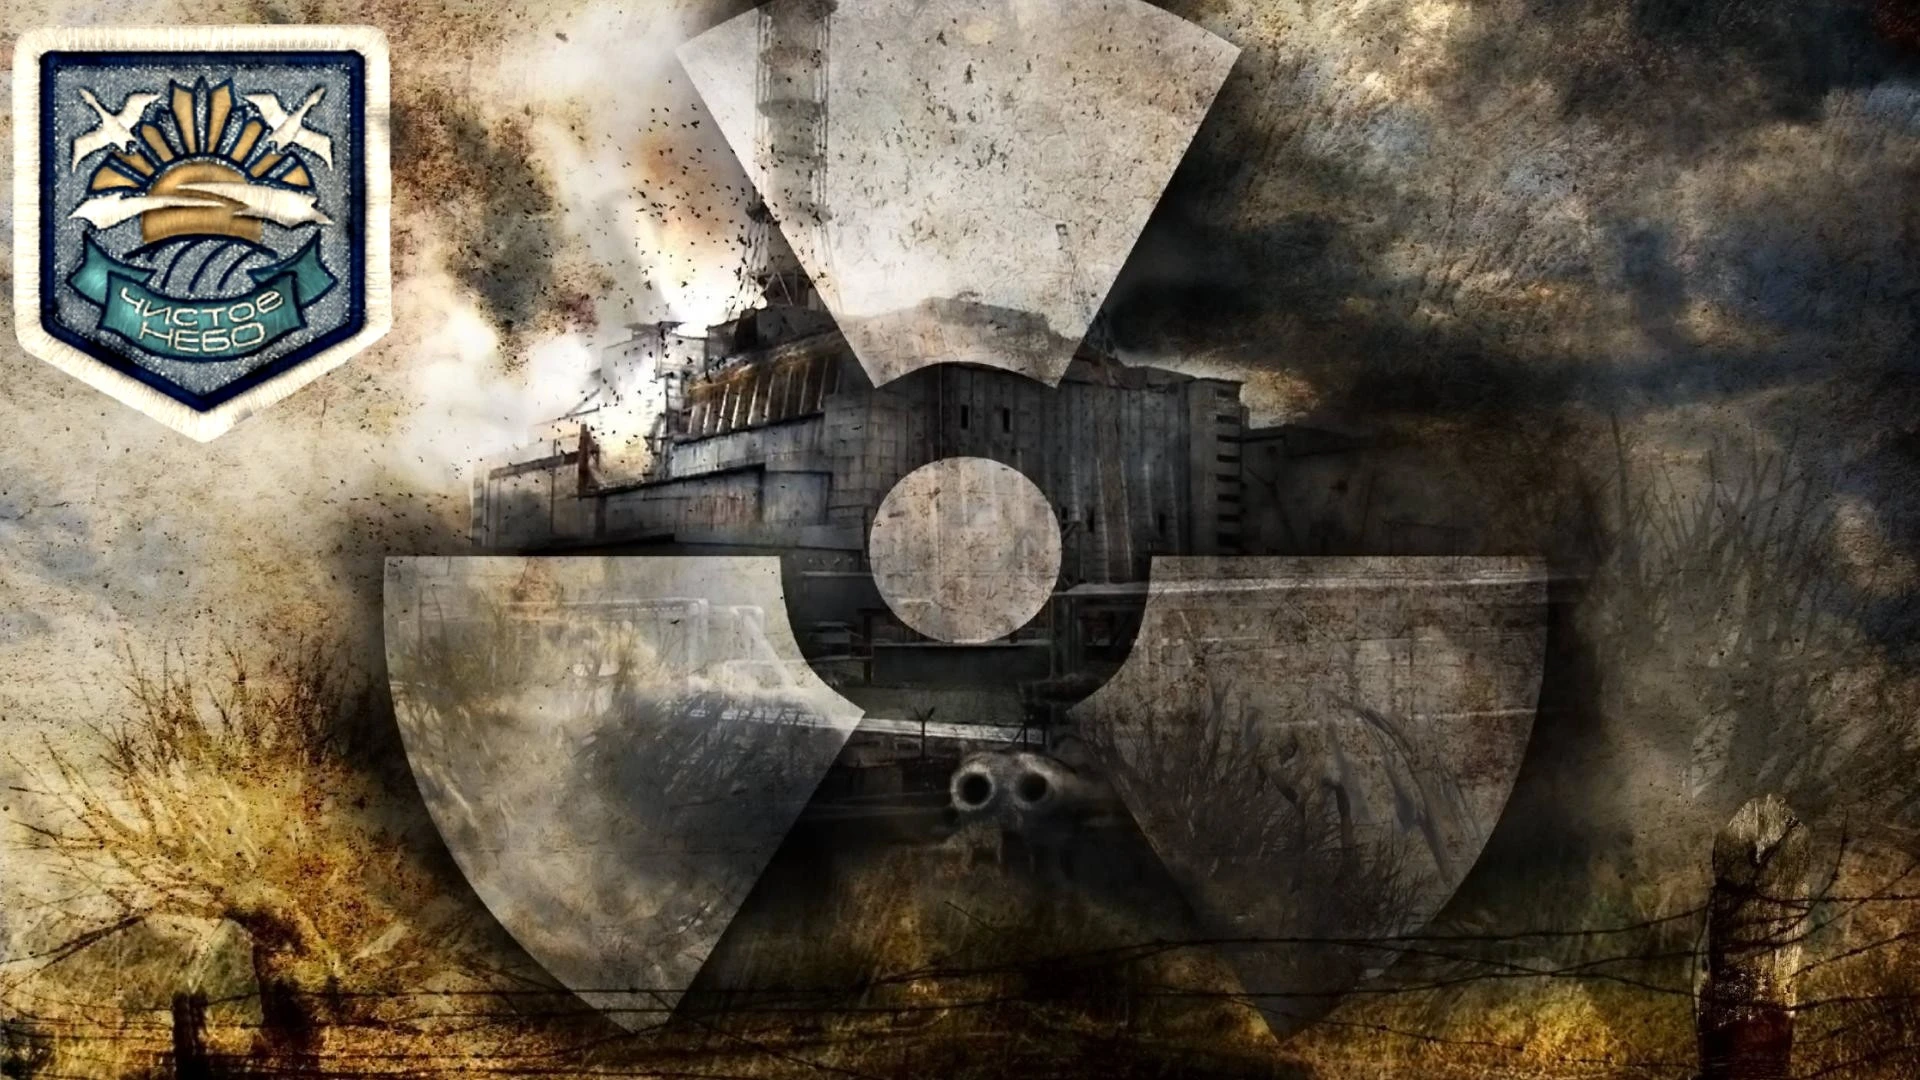
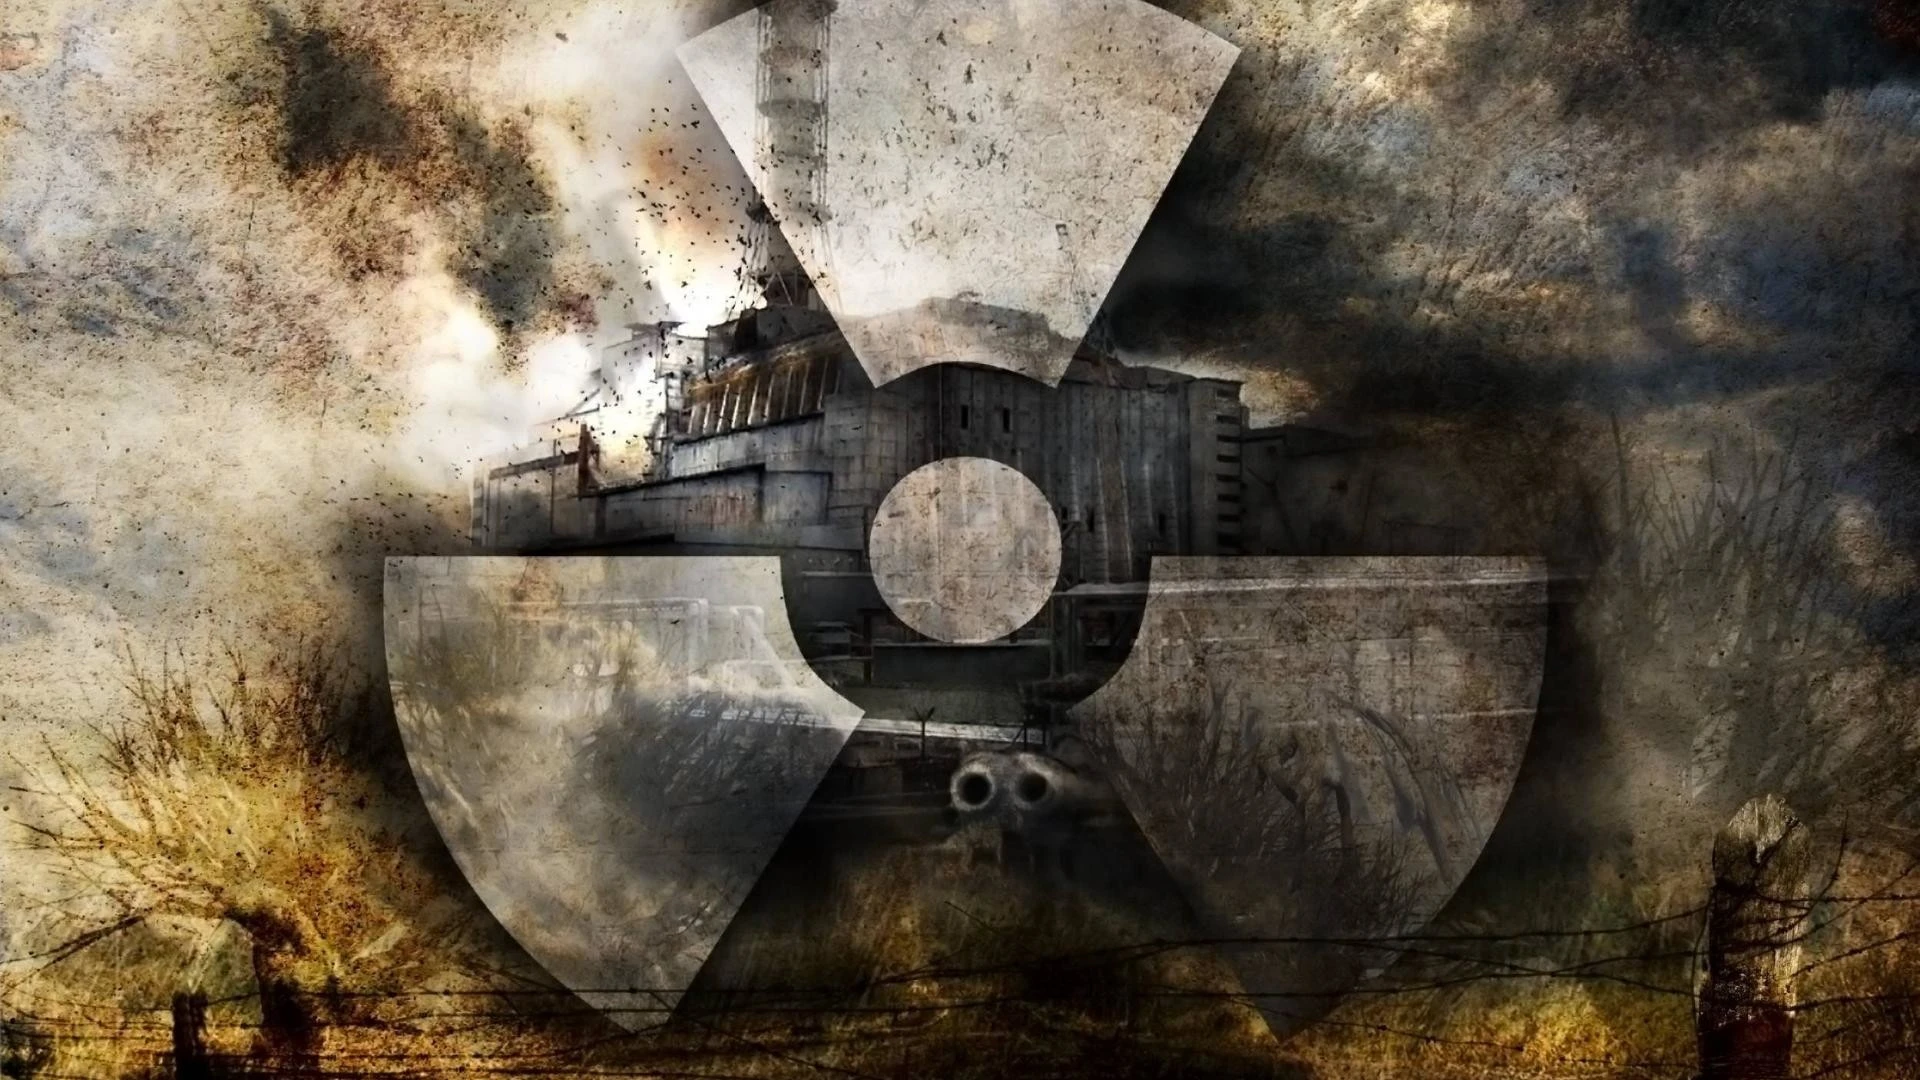
Bg update

Changed region(s): [[0.0, 0.0, 0.2188, 0.4278]]

diff --git a/src/components/GeneralComponents/LanguageSelector.tsx b/src/components/GeneralComponents/LanguageSelector.tsx
@@ -3,9 +3,9 @@ import styled from 'styled-components';
 import Select from '@mui/material/Select';
 import MenuItem from '@mui/material/MenuItem';
 import {useAppDispatch} from 'services/hooks';
-import {welcomeTitleStyles} from 'services/GlobalStyled';
 import {setLanguage} from 'store/userSlice';
 import {languageOptions} from 'services/GlobalUtils';
+import {font_header_1_bold} from 'theme/fonts';
 
 interface Props {
   language: string;
@@ -33,8 +33,6 @@ const Image = styled.div`
   margin-right: 0.5rem;
 `;
 
-const Label = styled.div``;
-
 const Wrapper = styled(Select)`
   &.MuiInputBase-root {
     z-index: 1;
@@ -50,6 +48,10 @@ const Wrapper = styled(Select)`
       flex-direction: column;
       align-items: center;
       min-width: 7rem;
+
+      @media ${({theme}) => theme.breakpoints.maxTb} {
+        padding: 1.5rem 0;
+      }
     }
 
     .MuiSvgIcon-root.MuiSelect-icon {
@@ -63,13 +65,14 @@ const Wrapper = styled(Select)`
     ${Image} {
       margin-right: 0;
     }
-
-    ${Label} {
-      ${welcomeTitleStyles};
-      margin: 0;
-      font-size: 1rem;
-    }
   }
+`;
+
+const Label = styled.div`
+  ${font_header_1_bold};
+  text-transform: uppercase;
+  margin: 0;
+  font-size: 1rem;
 `;
 
 export default LanguageSelector;

diff --git a/src/pages/Welcome/WelcomeView.tsx b/src/pages/Welcome/WelcomeView.tsx
@@ -9,6 +9,7 @@ import {welcomeTitleStyles} from 'services/GlobalStyled';
 import {selectUserConfiguration} from 'store/userSlice';
 import {localization} from './WelcomeUtils';
 import Background from 'assets/images/background.webp';
+import Logo from 'assets/images/logo.webp';
 import {font_body_2_reg, font_header_6_bold} from 'theme/fonts';
 
 const WelcomeView = () => {
@@ -24,6 +25,7 @@ const WelcomeView = () => {
 
   return (
     <Wrapper>
+      <Logotype />
       <LanguageSelector language={language} />
       <Content>
         <Title>{WELCOME}</Title>
@@ -45,6 +47,22 @@ const Wrapper = styled.div`
   align-items: center;
   overflow: hidden;
   perspective: 800px;
+`;
+
+const Logotype = styled.div`
+  position: absolute;
+  top: 2rem;
+  left: 5rem;
+  height: 11rem;
+  width: 11rem;
+  background: url(${Logo}) center center / contain no-repeat;
+
+  @media ${({theme}) => theme.breakpoints.maxTb} {
+    height: 8rem;
+    width: 8rem;
+    top: 1rem;
+    left: 1rem;
+  }
 `;
 
 const Content = styled.div`
